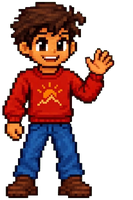
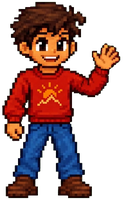
Mascota: loop de saludo continuo y más fluido (24 fps, sin bajar el brazo)

diff --git a/index.html b/index.html
@@ -45,7 +45,7 @@
           <!-- Mascota oficial de Horizonte 64 saludando (animación generada en Makko) -->
           <picture class="mascota">
             <source srcset="img/brand/h64-mascota.png" media="(prefers-reduced-motion: reduce)">
-            <img src="img/brand/h64-mascota.webp" alt="La mascota de Horizonte 64 saluda" width="133" height="200">
+            <img src="img/brand/h64-mascota.webp" alt="La mascota de Horizonte 64 saluda" width="126" height="200">
           </picture>
         </div>
       </div>
